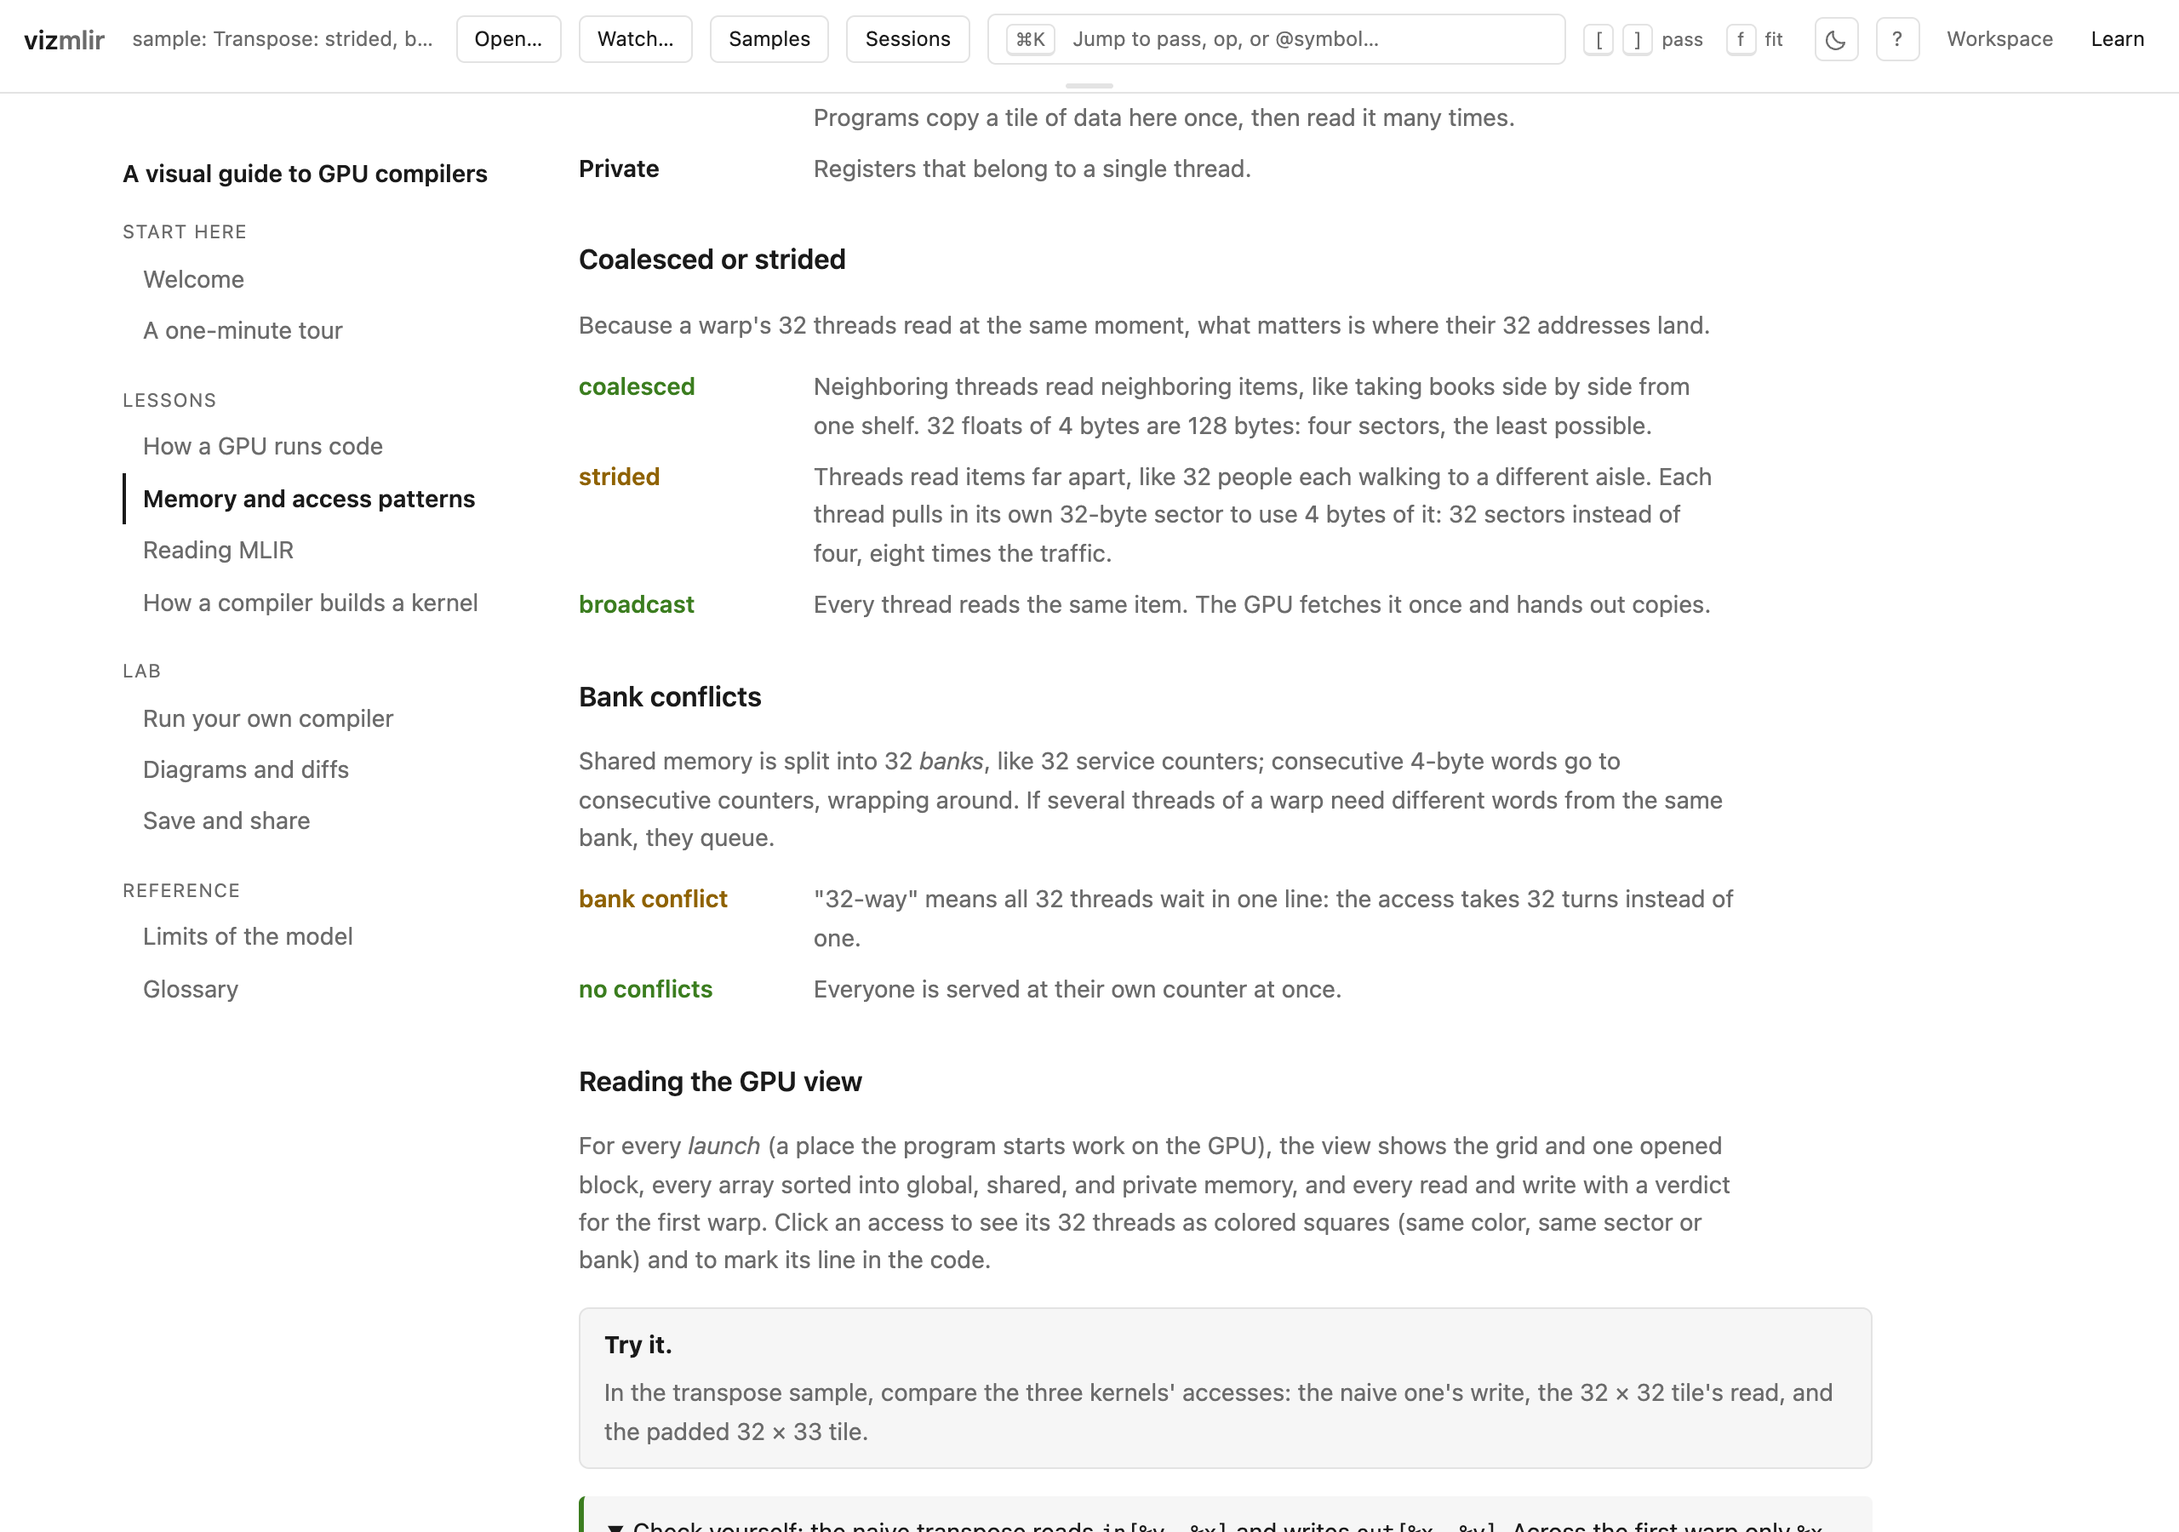
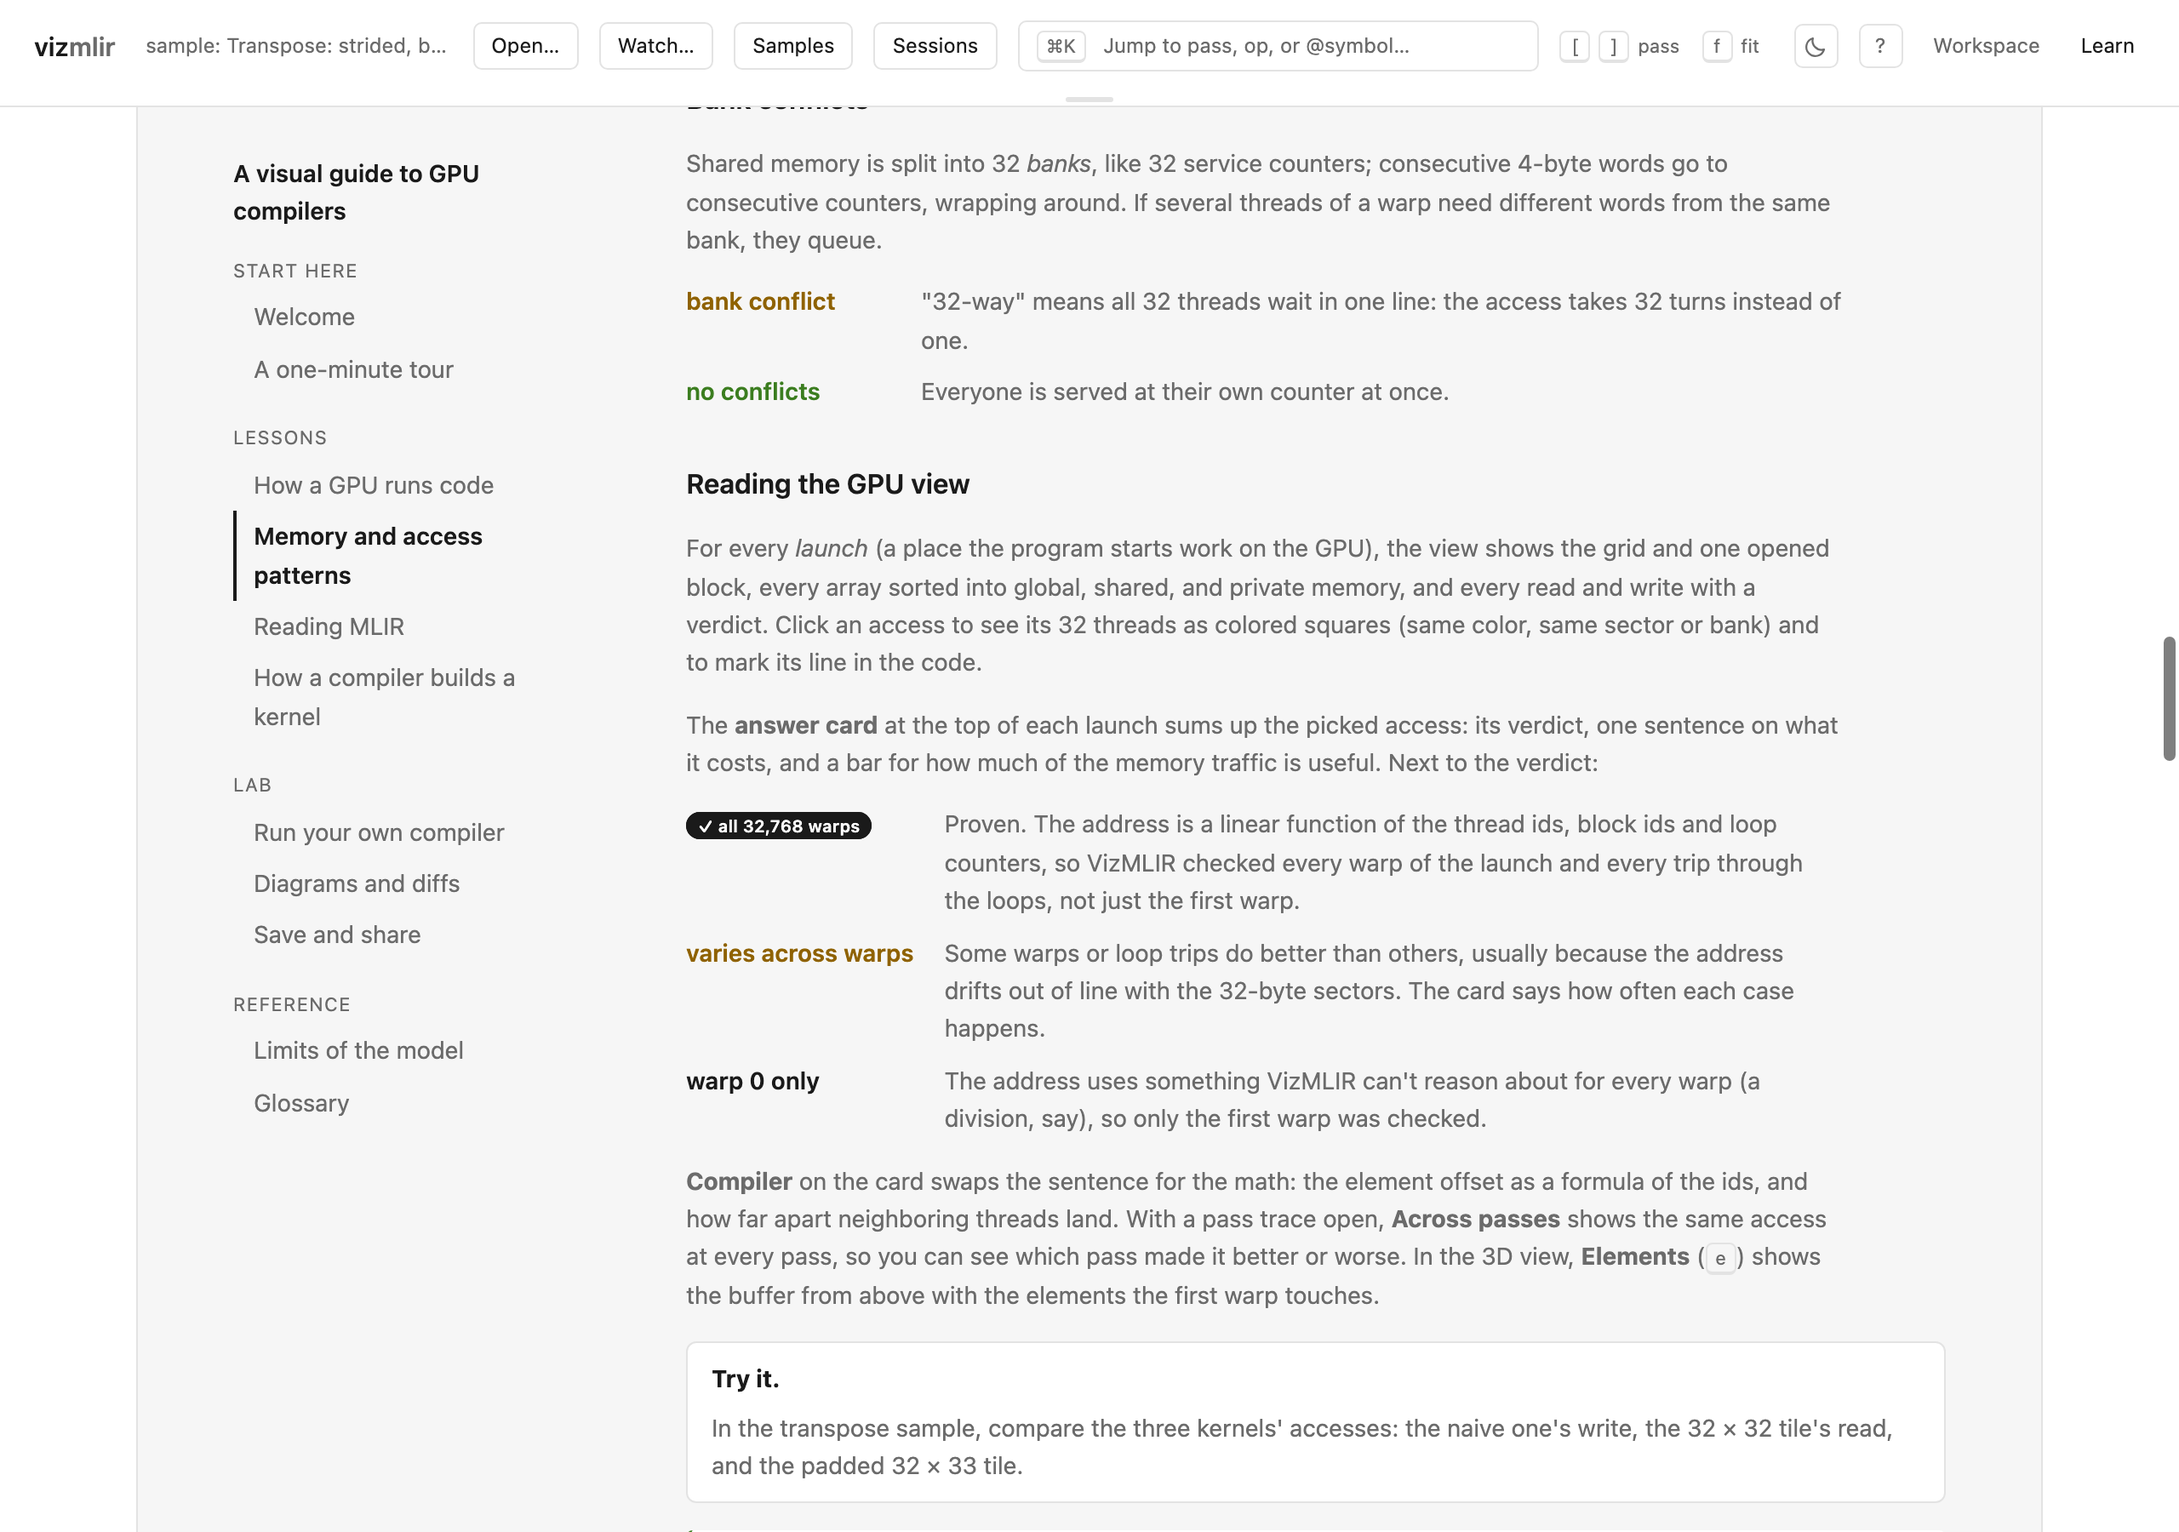
Test the passes strip, tighten the card when narrow, update guide and README
Tests cover matching an access across passes by position and the
summary sentence. The answer card tightens in narrow columns (container
query). The field guide and README explain the answer card, the reach
chips, Compiler mode, Across passes and Elements, with new screenshots.

diff --git a/index.html b/index.html
@@ -1897,6 +1897,8 @@
         font-family: var(--ui);
         font-size: 12px;
         line-height: 1.5;
+        /* The answer card tightens when this column is narrow. */
+        container-type: inline-size;
       }
       .gpu-intro {
         max-width: 720px;
@@ -2325,6 +2327,21 @@
         margin: 0;
         color: var(--dim);
         font-size: 12px;
+      }
+      @container (max-width: 460px) {
+        .gpu-answer {
+          padding: 10px 12px;
+        }
+        .gpu-answer-line {
+          font-size: 14px;
+        }
+        .gpu-depth {
+          margin-left: 0;
+        }
+        .gpu-meter-labels {
+          flex-direction: column;
+          gap: 0;
+        }
       }
       .gpu-passes {
         display: flex;
@@ -3608,9 +3625,11 @@
                     will do.
                   </li>
                   <li>
-                    Scroll to <strong>Memory accesses</strong> and click a row
-                    marked in orange. It explains what is wrong and how people
-                    usually fix it.
+                    Read the card at the top of the GPU view. It says whether
+                    the picked read or write is good for the GPU, what it
+                    costs, and how people usually fix it. Click another row in
+                    <strong>Memory accesses</strong> to change which one it
+                    explains.
                   </li>
                   <li>
                     Press <kbd>]</kbd> a few times to step through the
@@ -3812,9 +3831,46 @@
                   For every <em>launch</em> (a place the program starts work on
                   the GPU), the view shows the grid and one opened block, every
                   array sorted into global, shared, and private memory, and
-                  every read and write with a verdict for the first warp. Click
-                  an access to see its 32 threads as colored squares (same
-                  color, same sector or bank) and to mark its line in the code.
+                  every read and write with a verdict. Click an access to see
+                  its 32 threads as colored squares (same color, same sector or
+                  bank) and to mark its line in the code.
+                </p>
+                <p>
+                  The <strong>answer card</strong> at the top of each launch
+                  sums up the picked access: its verdict, one sentence on what
+                  it costs, and a bar for how much of the memory traffic is
+                  useful. Next to the verdict:
+                </p>
+                <dl class="docs-terms">
+                  <dt><span class="gpu-chip proven">✓ all 32,768 warps</span></dt>
+                  <dd>
+                    Proven. The address is a linear function of the thread ids,
+                    block ids and loop counters, so VizMLIR checked every warp
+                    of the launch and every trip through the loops, not just
+                    the first warp.
+                  </dd>
+                  <dt><span class="bad">varies across warps</span></dt>
+                  <dd>
+                    Some warps or loop trips do better than others, usually
+                    because the address drifts out of line with the 32-byte
+                    sectors. The card says how often each case happens.
+                  </dd>
+                  <dt>warp 0 only</dt>
+                  <dd>
+                    The address uses something VizMLIR can't reason about for
+                    every warp (a division, say), so only the first warp was
+                    checked.
+                  </dd>
+                </dl>
+                <p>
+                  <strong>Compiler</strong> on the card swaps the sentence for
+                  the math: the element offset as a formula of the ids, and
+                  how far apart neighboring threads land. With a pass trace
+                  open, <strong>Across passes</strong> shows the same access at
+                  every pass, so you can see which pass made it better or
+                  worse. In the 3D view, <strong>Elements</strong>
+                  (<kbd>e</kbd>) shows the buffer from above with the elements
+                  the first warp touches.
                 </p>
 
                 <div class="try">

diff --git a/tests/unit/gpu-view.test.js b/tests/unit/gpu-view.test.js
@@ -1,0 +1,72 @@
+import { readFileSync } from "node:fs";
+import { describe, expect, it } from "vitest";
+import { analyzeGpu } from "../../src/gpu.js";
+import { acrossPasses, passSummary } from "../../src/gpu-view.js";
+import { parsePassTrace } from "../../src/trace.js";
+
+const events = (name) =>
+  parsePassTrace(
+    readFileSync(new URL(`../../public/samples/${name}`, import.meta.url), "utf8"),
+  ).events;
+
+// The picked row for access `index` of launch `launchIndex` in `ir`.
+function pick(ir, launchIndex, index) {
+  const model = analyzeGpu(ir);
+  const kernel = model.kernels[model.launches[launchIndex].kernel];
+  return { kernel, judged: { access: kernel.accesses[index], index } };
+}
+
+const verdicts = (history) =>
+  history.map((h) => (h.result ? (h.result.analyzed ? h.result.verdict : "not analyzed") : null));
+
+describe("acrossPasses", () => {
+  const trace = events("gpu-transpose.trace.txt");
+  const passes = { events: trace };
+
+  it("follows an access through outlining by position, and loses it once lowered", () => {
+    const { kernel, judged } = pick(trace[0].ir, 0, 1);
+    expect(judged.access.kind).toBe("store");
+    const history = acrossPasses(passes, 0, kernel, judged);
+    expect(history).toHaveLength(trace.length);
+    expect(verdicts(history)).toEqual([
+      "strided",
+      "strided",
+      "strided",
+      "strided",
+      null,
+      null,
+      null,
+      null,
+    ]);
+    // Outlining renamed the buffer; the match is by position.
+    expect(history[0].access.buffer).toBe("%arg1");
+    expect(history[1].access.buffer).toBe("%arg2");
+  });
+
+  it("does not match an access of another kind at the same place", () => {
+    const { kernel, judged } = pick(trace[0].ir, 0, 1);
+    const load = { ...judged, access: { ...judged.access, kind: "load" } };
+    expect(verdicts(acrossPasses(passes, 0, kernel, load)).every((v) => v === null)).toBe(true);
+  });
+});
+
+describe("passSummary", () => {
+  const at = (verdict, sectors) => ({ result: { analyzed: true, verdict, sectors } });
+  const none = { result: null };
+
+  it("says no pass changes a verdict, and where the access stops being readable", () => {
+    expect(passSummary([at("strided", 32), at("strided", 32), none])).toBe(
+      "Strided · 32 sectors in passes 1–2: no pass changes it, so a fix belongs in the source. From pass 3 on it is lowered past memref loads and stores, so it is not read.",
+    );
+  });
+
+  it("names the pass that changes a verdict", () => {
+    expect(passSummary([at("strided", 32), at("coalesced", 4)])).toBe(
+      "Pass 2 turns strided · 32 sectors into coalesced · 4 sectors.",
+    );
+  });
+
+  it("says when no pass can be read", () => {
+    expect(passSummary([none, none])).toBe("Not readable in any pass.");
+  });
+});

diff --git a/src/gpu-view.js b/src/gpu-view.js
@@ -470,7 +470,7 @@ function passModel(ir) {
 // number of loads and stores in its kernel, and a load or store of the same
 // kind at the same place. Passes where nothing matches (after lowering to
 // LLVM, memref loads and stores are gone) get a null result.
-function acrossPasses(passes, launchIndex, kernel, judged) {
+export function acrossPasses(passes, launchIndex, kernel, judged) {
   return passes.events.map((event) => {
     const model = event.ir ? passModel(event.ir) : null;
     const launch = model?.launches[launchIndex];
@@ -478,7 +478,7 @@ function acrossPasses(passes, launchIndex, kernel, judged) {
     const access = other?.accesses?.[judged.index];
     if (!access || other.accesses.length !== kernel.accesses.length || access.kind !== judged.access.kind)
       return { event, result: null };
-    return { event, ...judge(access, other, launch) };
+    return { event, access, ...judge(access, other, launch) };
   });
 }
 
@@ -516,7 +516,7 @@ const verdictText = (result) =>
 // "1–3" for a run of pass numbers (0-based in), "5" for one.
 const span = (first, last) => (first === last ? `${first + 1}` : `${first + 1}–${last + 1}`);
 
-function passSummary(history) {
+export function passSummary(history) {
   const seen = history
     .map((h, i) => ({ i, text: h.result?.analyzed ? verdictText(h.result) : null }))
     .filter((h) => h.text);

diff --git a/README.md b/README.md
@@ -8,7 +8,7 @@ VizMLIR is a visual companion for computer architecture, compilers, and parallel
 
 🚀 **[Try VizMLIR live](https://joepothiboot.github.io/vizmlir/)**: it opens on a small example with two classic GPU mistakes in it. See if you can spot them.
 
-![VizMLIR showing a transpose kernel: the GPU view flags a strided write, and "What's this line?" explains the store in plain words](public/demo/vizmlir-workspace.png)
+![VizMLIR showing a transpose kernel: the answer card proves the write is strided for all 32,768 warps and follows it across compiler passes, and "What's this line?" explains the store in plain words](public/demo/vizmlir-workspace.png)
 
 _A transpose whose write is strided. The GPU view shows the 32 threads of a warp landing 1024 items apart; under the code, "What's this line?" takes the store apart in plain words._
 
@@ -44,7 +44,8 @@ One honest limit: VizMLIR only reads your code; it never runs it. It can spot th
 ### 🖥 See the GPU side
 
 - **The GPU view.** Whenever your code starts work on the GPU, the middle panel shows it as a grid of blocks, with one block opened up into its warps of 32 threads, and lists every array the kernel uses as global, shared, or private memory. Press `g` to switch to a diagram of the code instead.
-- **Memory checks.** Every read and write is checked for the first warp: are the threads reading neighbors (_coalesced_), far-apart places (_strided_), or the same item (_broadcast_)? In shared memory, are they queueing at the same bank (_bank conflict_)? Click one to see the 32 threads, the items they touch, and how people usually fix it.
+- **Memory checks.** Every read and write gets a verdict: are a warp's threads reading neighbors (_coalesced_), far-apart places (_strided_), or the same item (_broadcast_)? In shared memory, are they queueing at the same bank (_bank conflict_)? A card at the top says what it costs ("the GPU moves 8× more data than it uses") and how people usually fix it; click another access to see its 32 threads and, with **Elements** (`e`) in the 3D view, the items they touch.
+- **Proven, not guessed.** When an address is a linear function of the thread ids, block ids and loop counters, VizMLIR checks the verdict for every warp of the launch and every loop iteration, and says so ("✓ all 32,768 warps"). Switch the card to **Compiler** to see the math behind it, and follow the same access across every compiler step.
 - **What's this line?** Click any line of code to see it explained in plain words: what it produces, what it does, which values it uses (each linked back to the line that made it), and what kind of data it works on. For reads and writes, it also says how the GPU handles them, with a real example like "thread (1, 0, 0) uses `%arg1[1, 0]`". Press `w` to hide it.
 - **A kernel's full history.** Press `h` to see which compiler step created, changed, or finished each kernel, then follow one kernel step by step, all the way to the GPU assembly (PTX) at the end.
 - **Your measured timings.** Bring in results from Nsight Systems, Nsight Compute, Google Benchmark, or your own CSV, and compare two runs to see which kernels got faster or slower ([docs/benchmark-format.md](docs/benchmark-format.md)).

diff --git a/CHANGELOG.md b/CHANGELOG.md
@@ -11,6 +11,7 @@ The format is based on [Keep a Changelog](https://keepachangelog.com/en/1.1.0/),
 - The GPU view now proves memory verdicts instead of only sampling them. When an index is a linear function of the thread ids, block ids and loop counters, VizMLIR checks the verdict for every warp of the launch and every loop iteration, and a new Checked column in the Memory accesses table says how far it reaches ("all 32,768 warps", "every iteration", or "warp 0 only"). A loop that drifts out of alignment, coalesced on its first trip but not on the rest, now shows as "varies" with how often each pattern occurs.
 - Each GPU launch opens with an answer card for the picked load or store: its verdict, how far it was checked, one plain sentence ("Each warp touches 32 separate 32-byte chunks, so the GPU moves 8× more data than it uses") and a bar for the share of useful memory traffic or bank passes. Its Plain | Compiler switch swaps the sentence for the index math: the element offset as a formula of the ids, the distance between neighboring threads, and what the proof covered. The choice is remembered.
 - With a pass trace open, the answer card shows the picked access at every pass, colored by its verdict, with a sentence on what the passes did to it (for the transpose sample: "Strided · 32 sectors in passes 1–4: no pass changes it, so a fix belongs in the source"). A click on a pass selects it. Strided accesses and bank conflicts also get a one-line usual fix.
+- The field guide explains the answer card, the proven / varies / warp 0 only chips, Compiler mode, Across passes and Elements, and the README screenshots show the new card.
 - When a verdict is proven, the 3D view tints every block of the grid with it and says "Same pattern in every block: proven".
 - The map of the elements a warp touches moved into the 3D view: the Elements tool (or `e`) shows the buffer from above over the scene, and stays on as you pick other accesses.
 - VizMLIR is now framed as a tool for seeing how MLIR runs on the GPU. The canvas opens on the GPU view whenever the IR launches kernels, and remembers when you switch to the op graph instead (IR without GPU code always shows the graph). A first visit opens the transpose sample, the GPU samples come first in the Samples list, and the field guide, README, and page title lead with the GPU view. The op graph, pass diff, and trace tools are unchanged.
